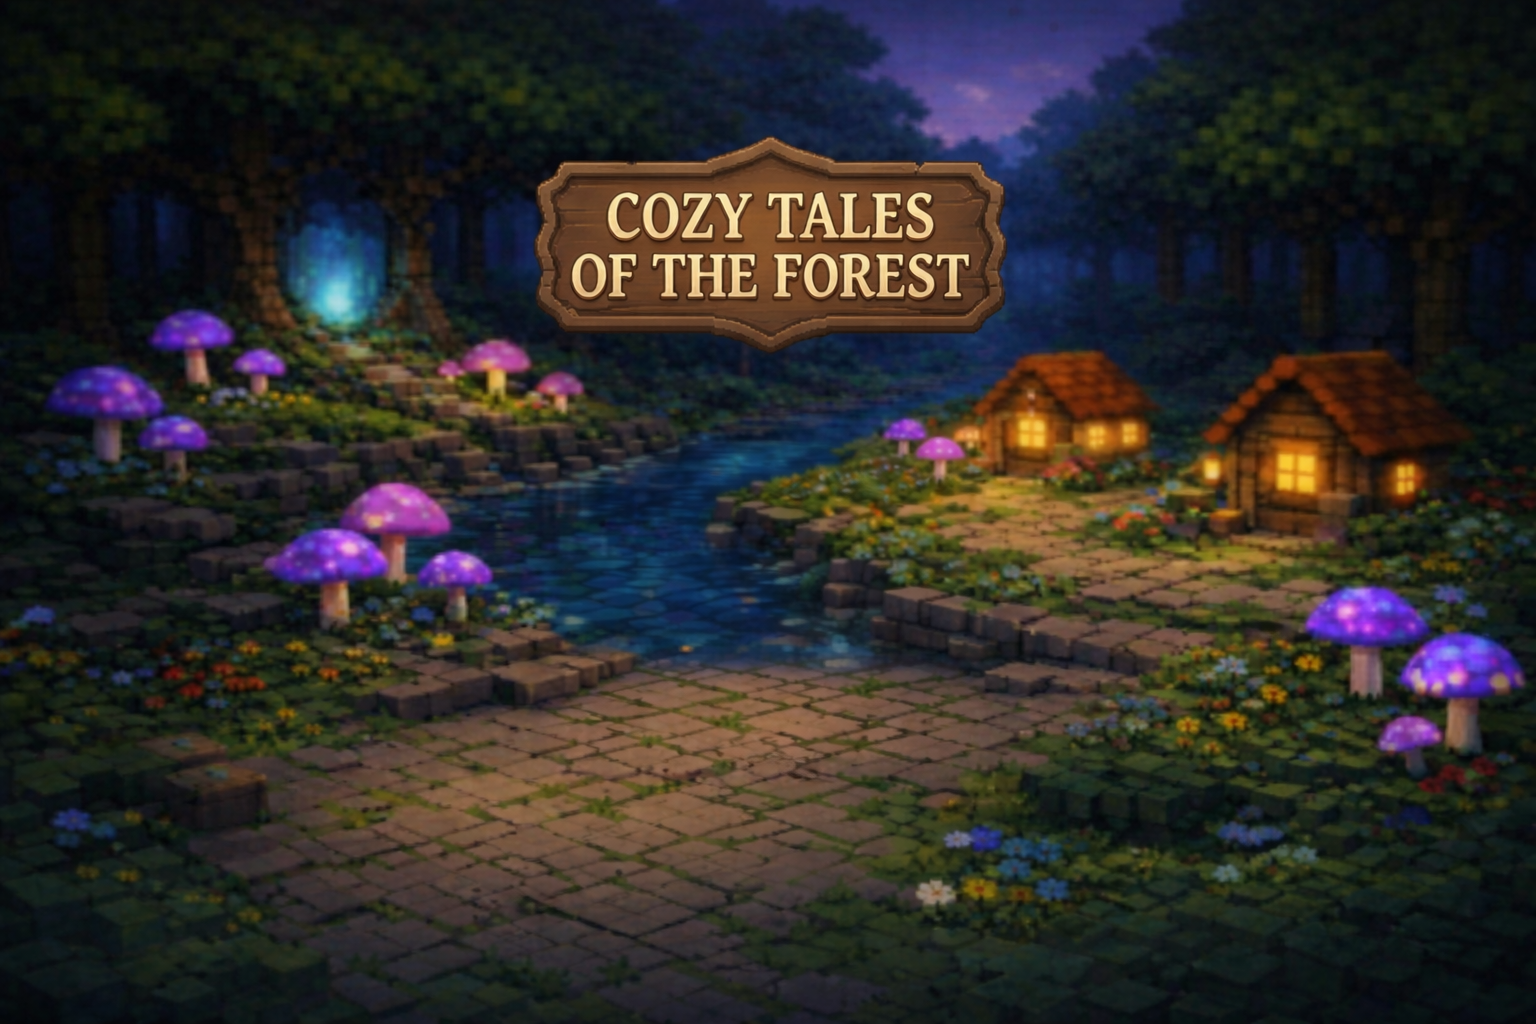
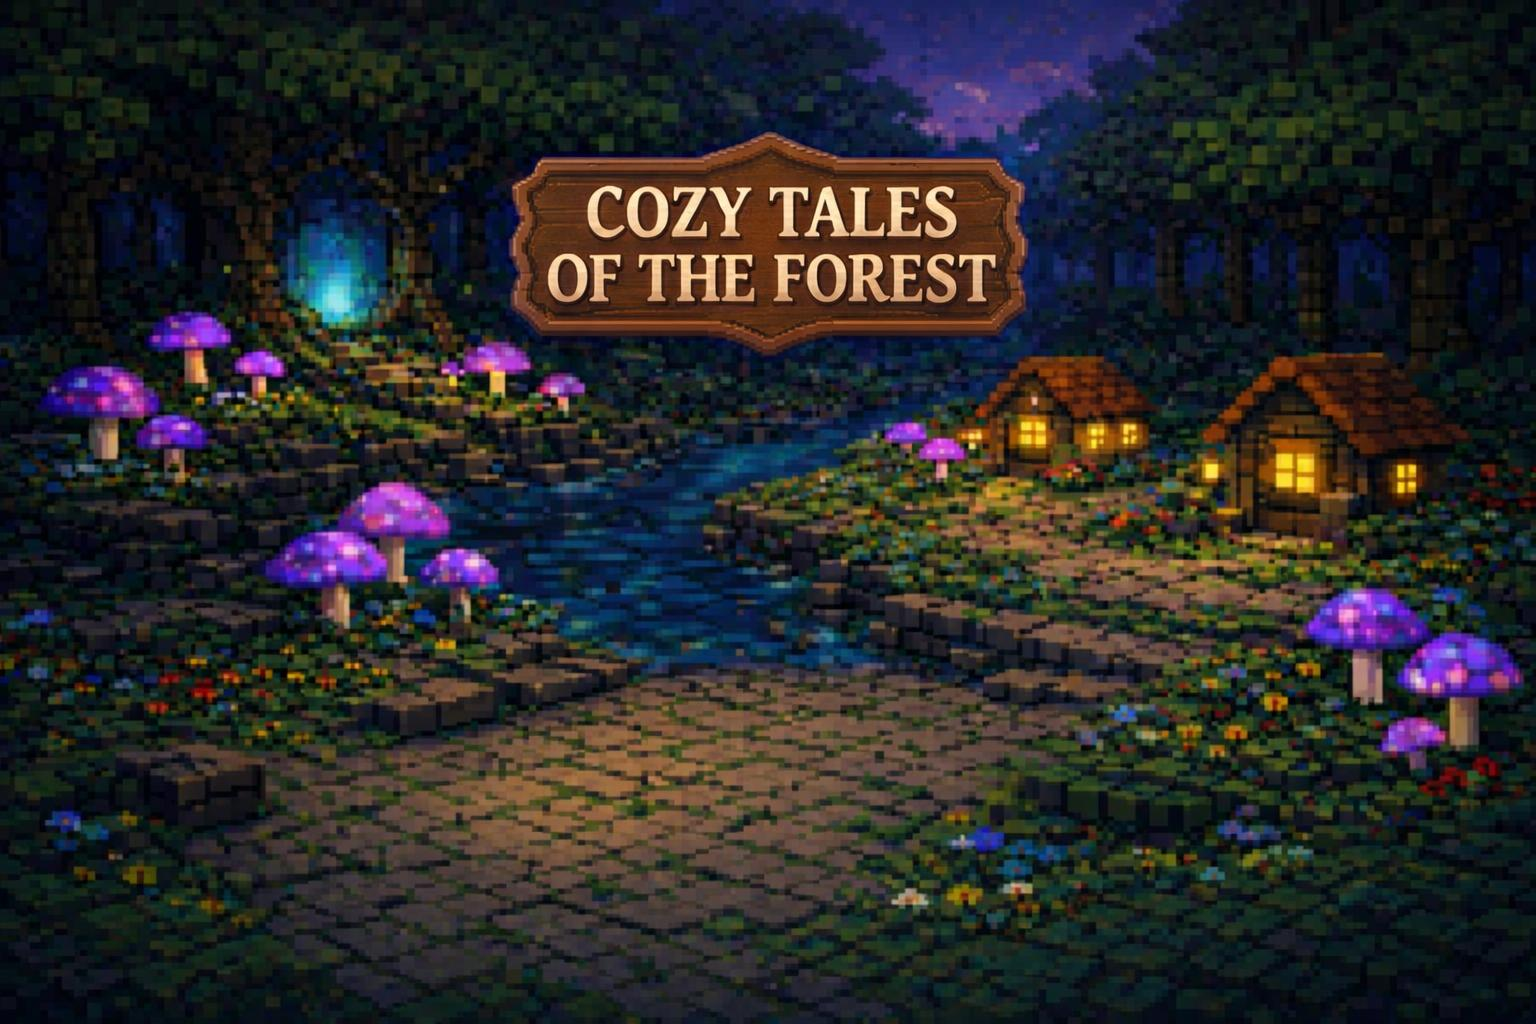
Merge pull request #15 from AILab-FOI/dodavanje-asseta
Dodani asseti, promijenjena mapa, dodan ekran za pauziranje

Pull request: Dodani asseti, promijenjena mapa, dodan ekran za pauziranje

diff --git a/settings.py b/settings.py
@@ -17,18 +17,39 @@ NUM_ANGLES = 72  # multiple of 360 -> 24, 30, 36, 40, 45, 60, 72, 90, 120, 180
 # entity settings
 ENTITY_SPRITE_ATTRS = {
     'player': {
-        'path': 'assets/entities/player/player.png',
-        'mask_path': 'assets/entities/player/mask.png',
-        'num_layers': 7,
-        'scale': 0.35,
+        'path': 'assets/entities/player/player_m.png',
+        #'mask_path': 'assets/entities/player/mask.png',
+        'num_layers': 11,
+        'scale': 0.3,
         'y_offset': 0,
     },
-    'kitty': {
-        'path': 'assets/entities/cats/kitty.png',
-        'num_layers': 8,
-        'scale': 0.8,
+    'albert_wisker': {
+        'path': 'assets/entities/albert_wisker/albert_w.png',
+        'num_layers': 12,
+        'scale': 0.33,
         'y_offset': -20,
-	'message':"""Hello! I'm a kitty cat! """
+	'message':"""7 minutes. 7 minutes is all I can spare to fish with you! """
+    },
+    'forest_guardian': {
+        'path': 'assets/entities/forest_guardian/forest_guard.png',
+        'num_layers': 15,
+        'scale': 0.3,
+        'y_offset': -20,
+	'message':"""I am the guardian of this forest! """
+    },
+    'beetle': {
+        'path': 'assets/entities/beetle/beetle.png',
+        'num_layers': 12,
+        'scale': 0.3,
+        'y_offset': -20,
+	'message':"""Hello! """
+    },
+    'kosjenka': {
+        'path': 'assets/entities/kosjenka/fairy.png',
+        'num_layers': 12,
+        'scale': 0.3,
+        'y_offset': -20,
+	'message':"""Hello! """
     },
     'explosion': {
         'num_layers': 7,
@@ -57,76 +78,48 @@ STACKED_SPRITE_ATTRS = {
         'y_offset': 0,
         'mask_layer': 4,
     },
-    'pancake': {
-        'path': 'assets/stacked_sprites/pancake.png',
-        'num_layers': 11,
-        'scale': 7,
-        'y_offset': 0,
-        'mask_layer': 4,
-    },
-    'cup': {
-        'path': 'assets/stacked_sprites/cup.png',
-        'num_layers': 13,
-        'scale': 8,
-        'y_offset': 10,
-    },
-    'crate': {
-        'path': 'assets/stacked_sprites/crate.png',
-        'num_layers': 16,
-        'scale': 5,
-        'y_offset': 10,
-	'message':"""Maybe some treasure in here? Nope... empty..."""
-    },
     'grass': {
-        'path': 'assets/stacked_sprites/grass.png',
+        'path': 'assets/stacked_sprites/grass/grass.png',
         'num_layers': 11,
         'scale': 7,
         'y_offset': 20,
         'outline': False,
     },
     'blue_tree': {
-        'path': 'assets/stacked_sprites/blue_tree.png',
+        'path': 'assets/stacked_sprites/trees/blue_tree.png',
         'num_layers': 43,
         'scale': 8,
         'y_offset': -130,
         'transparency': True,
         'mask_layer': 3,
     },
-    'car': {
-        'path': 'assets/stacked_sprites/car.png',
-        'num_layers': 9,
-        'scale': 10,
-        'y_offset': 10,
-    },
-    'van': {
-        'path': 'assets/stacked_sprites/van.png',
-        'num_layers': 20,
-        'scale': 6,
-        'y_offset': 10,
-    },
-    'tank': {
-        'path': 'assets/stacked_sprites/tank.png',
-        'num_layers': 17,
-        'scale': 8,
+    'water':{
+        'path': 'assets/stacked_sprites/terrain/water.png',
+        'num_layers': 1,
+        'scale': 1,
         'y_offset': 0,
-        'mask_layer': 4,
+        'outline': False,
+    },
+    'field':{
+        'path': 'assets/stacked_sprites/terrain/field.png',
+        'num_layers': 1,
+        'scale': 1,
+        'y_offset': 0,
+        'outline': False,
+    },
+    'bridge':{
+        'path': 'assets/stacked_sprites/terrain/bridge.png',
+        'num_layers': 1,
+        'scale': 1,
+        'y_offset': 0,
+        'outline': False,
+    },
+    'mushroom': {
+        'path': 'assets/stacked_sprites/mushroom/mushroom1.png',
+        'num_layers': 13,
+        'scale': 1,
+        'y_offset': 0,
+        'mask_layer': 3,
+        'transparency': False,
     },
 }
-
-
-
-
-
-
-
-
-
-
-
-
-
-
-
-
-
-

diff --git a/scene.py b/scene.py
@@ -6,20 +6,27 @@ from player import Player
 import threading
 
 P = 'player'
-K = 'kitty'  # entity
-A, B, C, D, E, F, G, H = 'van', 'tank', 'blue_tree', 'car', 'grass', 'crate', 'cup', 'pancake'
+W = 'albert_wisker'
+G = 'forest_guardian'
+J = 'beetle'
+K = 'kosjenka'
+T, A, R, F, B = 'blue_tree','grass', 'water', 'field', 'bridge'
 S = 'sphere' # transform object
 
 MAP = [
-    [0, E, 0, E, B, 0, E, 0, 0, E, 0, E, 0, E],
-    [E, C, C, C, 0, C, C, 0, E, 0, C, C, C, 0],
-    [0, C, 0, 0, 0, 0, E, C, 0, C, 0, H, K, C],
-    [C, 0, 0, E, C, 0, 0, C, C, 0, 0, 0, 0, C],
-    [C, E, 0, 0, P, E, 0, E, 0, 0, F, E, 0, C],
-    [C, 0, 0, A, E, D, E, S, 0, F, 0, 0, C, 0],
-    [0, C, E, 0, 0, 0, E, 0, E, 0, 0, B, C, E],
-    [0, C, C, 0, E, 0, C, C, 0, G, E, C, 0, 0],
-    [E, 0, 0, C, C, C, C, 0, C, C, C, 0, E, 0],
+    [T, T, T, T, T, T, T, T, T, T, T, T, T, T, T, T, T, T],
+    [T, T, T, T, T, T, T, T, T, T, T, T, T, T, T, T, T, T],
+    [T, T, T, T, T, T, T, T, T, T, T, T, T, T, T, T, T, T],
+    [T, T, T, 0, 0, 0, 0, 0, 0, 0, 0, 0, 0, 0, 0, T, T, T],
+    [T, T, T, 0, J, 0, 0, 0, 0, 0, 0, 0, 0, K, 0, T, T, T],
+    [T, T, T, 0, 0, 0, 0, 0, P, G, 0, 0, 0, 0, 0, T, T, T],
+    [R, R, R, R, R, R, R, W, 0, 0, 0, 0, 0, 0, 0, T, T, T],
+    [T, T, T, 0, 0, 0, R, R, R, B, R, 0, 0, 0, 0, T, T, T],
+    [T, T, T, F, F, F, 0, 0, 0, 0, R, R, R, 0, 0, T, T, T],
+    [T, T, T, F, F, F, 0, 0, 0, 0, 0, 0, R, 0, 0, T, T, T],
+    [T, T, T, T, T, T, T, T, T, T, T, T, R, T, T, T, T, T],
+    [T, T, T, T, T, T, T, T, T, T, T, T, R, T, T, T, T, T],
+    [T, T, T, T, T, T, T, T, T, T, T, T, R, T, T, T, T, T],
 ]
 
 MAP_SIZE = MAP_WIDTH, MAP_HEIGHT = vec2(len(MAP), len(MAP[0]))
@@ -50,13 +57,24 @@ class Scene:
                 pos = vec2(i, j) + vec2(0.5)
                 if name == 'player':
                     self.app.player.offset = pos * TILE_SIZE
-                elif name == 'kitty':
+                elif name == 'albert_wisker':
+                    Entity(self.app, name=name, pos=pos)
+                elif name == 'forest_guardian':
+                    Entity(self.app, name=name, pos=pos)
+                elif name == 'beetle':
+                    Entity(self.app, name=name, pos=pos)
+                elif name == 'kosjenka':
                     Entity(self.app, name=name, pos=pos)
                 elif name == 'blue_tree':
                     TrnspStackedSprite(self.app, name=name, pos=rand_pos(pos), rot=rand_rot())
                 elif name == 'grass':
-                    StackedSprite(self.app, name=name, pos=rand_pos(pos), rot=rand_rot(),
-                                  collision=False)
+                    StackedSprite(self.app, name=name, pos=rand_pos(pos), rot=rand_rot(), collision=False)
+                elif name == 'water':
+                    StackedSprite(self.app, name=name, pos=pos, rot=0, collision=True)
+                elif name == 'field':
+                    StackedSprite(self.app, name=name, pos=pos, rot=0, collision=False)
+                elif name == 'bridge':
+                    StackedSprite(self.app, name=name, pos=pos, rot=0, collision=False)
                 elif name == 'sphere':
                     obj = StackedSprite(self.app, name=name, pos=rand_pos(pos), rot=rand_rot())
                     self.transform_objects.append(obj)
@@ -71,6 +89,12 @@ class Scene:
     def transform(self):
         for obj in self.transform_objects:
             obj.rot = 30 * self.app.time
+
+    def draw(self):
+        self.app.screen.fill(BG_COLOR)
+        self.app.entity_group.draw(self.app.screen)
+        self.app.main_group.draw(self.app.screen)
+        self.app.message.draw()
 
     def update(self):
         self.get_closest_object_to_player()
@@ -236,3 +260,58 @@ class MenuScene:
             self.app.screen.blit(self.quit_hover_img, self.quit_rect)
         else:
             self.app.screen.blit(self.quit_img, self.quit_rect)
+
+class PauseScene:
+    def __init__(self, app, game_scene):
+        self.app = app
+        self.game_scene = game_scene
+        self.font = pg.font.Font("assets/PressStart2P-Regular.ttf", 40)
+
+        self.resume_img = pg.transform.scale(pg.image.load('assets/buttons/continue.png').convert_alpha(), (250, 100))
+        self.exit_img = pg.transform.scale(pg.image.load('assets/buttons/exit.png').convert_alpha(), (250, 100))
+
+        self.resume_hover_img = pg.transform.scale(pg.image.load('assets/buttons/continue_hover.png').convert_alpha(), (250, 100))
+        self.exit_hover_img = pg.transform.scale(pg.image.load('assets/buttons/exit_hover.png').convert_alpha(), (250, 100))
+
+        self.resume_rect = self.resume_img.get_rect(center=(WIDTH // 2, HEIGHT * 0.45))
+        self.exit_rect = self.exit_img.get_rect(center=(WIDTH // 2, HEIGHT * 0.65))
+
+    def update(self):
+        mouse_pos = pg.mouse.get_pos()
+        for event in pg.event.get():
+            if event.type == pg.QUIT:
+                pg.QUIT()
+                sys.exit()
+
+            if event.type == pg.KEYDOWN:
+                if event.key == pg.K_ESCAPE:
+                    self.app.scene = self.game_scene
+
+            if event.type == pg.MOUSEBUTTONDOWN:
+                if event.button == 1:
+                    if self.resume_rect.collidepoint(mouse_pos):
+                        self.app.scene = self.game_scene
+                    elif self.exit_rect.collidepoint(mouse_pos):
+                        pg.quit()
+                        sys.exit()
+
+    def draw(self):
+        self.game_scene.draw()
+
+        overlay = pg.Surface(RES, pg.SRCALPHA)
+        overlay.fill((0, 0, 0, 180))
+        self.app.screen.blit(overlay, (0, 0))
+
+        title = self.font.render("PAUSE", True, 'white')
+        self.app.screen.blit(title, title.get_rect(center=(WIDTH // 2, HEIGHT * 0.25)))
+        mouse_pos = pg.mouse.get_pos()
+
+        if self.resume_rect.collidepoint(mouse_pos):
+            self.app.screen.blit(self.resume_hover_img, self.resume_rect)
+        else:
+            self.app.screen.blit(self.resume_img, self.resume_rect)
+
+        if self.exit_rect.collidepoint(mouse_pos):
+            self.app.screen.blit(self.exit_hover_img, self.exit_rect)
+        else:
+            self.app.screen.blit(self.exit_img, self.exit_rect)

diff --git a/main.py b/main.py
@@ -3,7 +3,7 @@ import platform
 from settings import *
 from cache import Cache
 from player import Player
-from scene import Scene, LoadingScene
+from scene import Scene, LoadingScene, PauseScene
 import asyncio
 from itertools import cycle
 from message import Message
@@ -41,29 +41,30 @@ class App:
         self.delta_time = self.clock.tick()
 
     def draw(self):
-        try:
-            self.scene.draw()
-        except:
-            self.screen.fill(BG_COLOR)
-            self.entity_group.draw(self.screen)
-            self.main_group.draw(self.screen)
-            self.message.draw()
-        
-        
+        self.scene.draw()
         pg.display.flip()
 
     def check_events(self):
         self.anim_trigger = False
-        if hasattr(self.scene, 'start_rect'): 
+        if hasattr(self.scene, 'start_rect') or hasattr(self.scene, 'resume_rect'): 
             return
+        
         for e in pg.event.get():
-            if e.type == pg.QUIT or (e.type == pg.KEYDOWN and e.key == pg.K_ESCAPE):
+            if e.type == pg.QUIT:
                 pg.quit()
                 sys.exit()
+
+            elif e.type == pg.KEYDOWN and e.key == pg.K_ESCAPE:
+                from scene import Scene
+                if isinstance(self.scene, Scene):
+                    self.scene = PauseScene(self, self.scene)
+
             elif e.type == self.anim_event:
                 self.anim_trigger = True
+                
             elif e.type == pg.KEYDOWN:
-                self.player.single_fire(event=e)
+                if self.player:
+                    self.player.single_fire(event=e)
 
     def get_time(self):
         self.time = pg.time.get_ticks() * 0.001

diff --git a/player.py b/player.py
@@ -18,13 +18,13 @@ class Player(BaseEntity):
         self.angle = 0
         self.diag_move_corr = 1 / math.sqrt(2)
 
-        self.down_ind = [ 0, 1, 2, 3, 4, 5, 6 ]
+        self.down_ind = [0, 1, 2, 3, 4, 5, 6, 7, 8, 9, 10]
         self.down_list = cycle( self.down_ind )
-        self.up_ind = [ 0, 1, 2, 3, 4, 5, 6 ]
+        self.up_ind = [0, 1, 2, 3, 4, 5, 6, 7, 8, 9, 10]
         self.up_list = cycle( self.up_ind )
-        self.left_ind = [ 0, 1, 2, 3, 4, 5, 6 ]
+        self.left_ind = [0, 1, 2, 3, 4, 5, 6, 7, 8, 9, 10]
         self.left_list = cycle( self.left_ind )
-        self.right_ind = [ 0, 1, 2, 3, 4, 5, 6 ]
+        self.right_ind = [0, 1, 2, 3, 4, 5, 6, 7, 8, 9, 10]
         self.right_list = cycle( self.right_ind )
 
         self.direction = 'DOWN'

diff --git a/stacked_sprite.py b/stacked_sprite.py
@@ -36,7 +36,10 @@ class StackedSprite(pg.sprite.Sprite):
             self.message = ''
 
     def change_layer(self):
-        self.group.change_layer(self, self.screen_pos.y)
+        if self.attrs.get('num_layers', 0) <= 1:
+            self.group.change_layer(self, -999)
+        else:
+            self.group.change_layer(self, self.screen_pos.y)
 
     def transform(self):
         pos = self.pos - self.player.offset